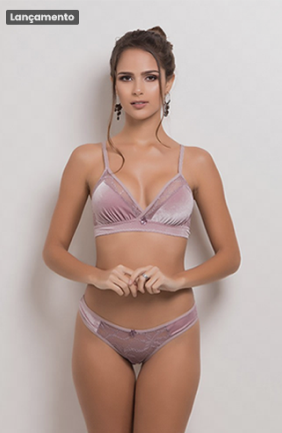
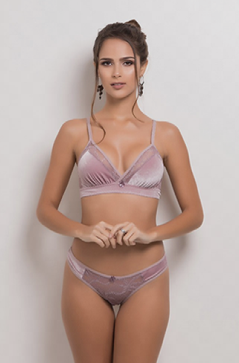
fix: hover and position absolute

diff --git a/index.html b/index.html
@@ -144,6 +144,21 @@
                 <div class="carousel-item">
                     <!-- Conteúdo do card 1 -->
                     <img class="img_card_slick" src="/assets/product01.png" alt="">
+                    <div class="div_buttons_product_slick_hover">
+                        <button class="button_favoritar_slick">                 
+                            <svg xmlns="http://www.w3.org/2000/svg" width="16" height="16" fill="currentColor" class="bi bi-heart" viewBox="0 0 16 16">
+                                <path d="m8 2.748-.717-.737C5.6.281 2.514.878 1.4 3.053c-.523 1.023-.641 2.5.314 4.385.92 1.815 2.834 3.989 6.286 6.357 3.452-2.368 5.365-4.542 6.286-6.357.955-1.886.838-3.362.314-4.385C13.486.878 10.4.28 8.717 2.01zM8 15C-7.333 4.868 3.279-3.04 7.824 1.143q.09.083.176.171a3 3 0 0 1 .176-.17C12.72-3.042 23.333 4.867 8 15"/>
+                            </svg>
+                            Favoritar
+                        </button>
+                        <button class="button_espiar_slick">
+                            <svg xmlns="http://www.w3.org/2000/svg" width="16" height="16" fill="currentColor" class="bi bi-eye" viewBox="0 0 16 16">
+                                <path d="M16 8s-3-5.5-8-5.5S0 8 0 8s3 5.5 8 5.5S16 8 16 8M1.173 8a13 13 0 0 1 1.66-2.043C4.12 4.668 5.88 3.5 8 3.5s3.879 1.168 5.168 2.457A13 13 0 0 1 14.828 8q-.086.13-.195.288c-.335.48-.83 1.12-1.465 1.755C11.879 11.332 10.119 12.5 8 12.5s-3.879-1.168-5.168-2.457A13 13 0 0 1 1.172 8z"/>
+                                <path d="M8 5.5a2.5 2.5 0 1 0 0 5 2.5 2.5 0 0 0 0-5M4.5 8a3.5 3.5 0 1 1 7 0 3.5 3.5 0 0 1-7 0"/>
+                            </svg>
+                            Espiar
+                        </button>
+                    </div>
                     <p></p>
                     <p class="tile_product_slick">Lorem, ipsum dolor sit amet</p>
                     <p class="referenci_product_slick">ref:pdc202</p>
@@ -151,10 +166,26 @@
                     <p class="meio_pagamento_product_slick"> no boleto</p>
                     <p class="meio_pagamento_product_slick_parcelado"> em até 10x de R$ 6,30</p>
                     <button class="button_product_slick">Compre agora</button>
+                    <p class="aviso_lancamento_slick">Lançamento</p>
                 </div>
                 <div class="carousel-item">
                     <!-- Conteúdo do card 2 -->
                     <img class="img_card_slick" src="/assets/product02.png" alt="">
+                    <div class="div_buttons_product_slick_hover">
+                        <button class="button_favoritar_slick">                 
+                            <svg xmlns="http://www.w3.org/2000/svg" width="16" height="16" fill="currentColor" class="bi bi-heart" viewBox="0 0 16 16">
+                                <path d="m8 2.748-.717-.737C5.6.281 2.514.878 1.4 3.053c-.523 1.023-.641 2.5.314 4.385.92 1.815 2.834 3.989 6.286 6.357 3.452-2.368 5.365-4.542 6.286-6.357.955-1.886.838-3.362.314-4.385C13.486.878 10.4.28 8.717 2.01zM8 15C-7.333 4.868 3.279-3.04 7.824 1.143q.09.083.176.171a3 3 0 0 1 .176-.17C12.72-3.042 23.333 4.867 8 15"/>
+                            </svg>
+                            Favoritar
+                        </button>
+                        <button class="button_espiar_slick">
+                            <svg xmlns="http://www.w3.org/2000/svg" width="16" height="16" fill="currentColor" class="bi bi-eye" viewBox="0 0 16 16">
+                                <path d="M16 8s-3-5.5-8-5.5S0 8 0 8s3 5.5 8 5.5S16 8 16 8M1.173 8a13 13 0 0 1 1.66-2.043C4.12 4.668 5.88 3.5 8 3.5s3.879 1.168 5.168 2.457A13 13 0 0 1 14.828 8q-.086.13-.195.288c-.335.48-.83 1.12-1.465 1.755C11.879 11.332 10.119 12.5 8 12.5s-3.879-1.168-5.168-2.457A13 13 0 0 1 1.172 8z"/>
+                                <path d="M8 5.5a2.5 2.5 0 1 0 0 5 2.5 2.5 0 0 0 0-5M4.5 8a3.5 3.5 0 1 1 7 0 3.5 3.5 0 0 1-7 0"/>
+                            </svg>
+                            Espiar
+                        </button>
+                    </div>
                     <p></p>
                     <p class="tile_product_slick">Lorem, ipsum dolor sit amet</p>
                     <p class="referenci_product_slick">ref:pdc202</p>
@@ -162,10 +193,26 @@
                     <p class="meio_pagamento_product_slick"> no boleto</p>
                     <p class="meio_pagamento_product_slick_parcelado"> em até 10x de R$ 6,30</p>
                     <button class="button_product_slick">Compre agora</button>
+                    <p class="aviso_lancamento_slick">Lançamento</p>
                 </div>
                 <div class="carousel-item">
                     <!-- Conteúdo do card 3 -->
                     <img class="img_card_slick" src="/assets/product03.png" alt="">
+                    <div class="div_buttons_product_slick_hover">
+                        <button class="button_favoritar_slick">                 
+                            <svg xmlns="http://www.w3.org/2000/svg" width="16" height="16" fill="currentColor" class="bi bi-heart" viewBox="0 0 16 16">
+                                <path d="m8 2.748-.717-.737C5.6.281 2.514.878 1.4 3.053c-.523 1.023-.641 2.5.314 4.385.92 1.815 2.834 3.989 6.286 6.357 3.452-2.368 5.365-4.542 6.286-6.357.955-1.886.838-3.362.314-4.385C13.486.878 10.4.28 8.717 2.01zM8 15C-7.333 4.868 3.279-3.04 7.824 1.143q.09.083.176.171a3 3 0 0 1 .176-.17C12.72-3.042 23.333 4.867 8 15"/>
+                            </svg>
+                            Favoritar
+                        </button>
+                        <button class="button_espiar_slick">
+                            <svg xmlns="http://www.w3.org/2000/svg" width="16" height="16" fill="currentColor" class="bi bi-eye" viewBox="0 0 16 16">
+                                <path d="M16 8s-3-5.5-8-5.5S0 8 0 8s3 5.5 8 5.5S16 8 16 8M1.173 8a13 13 0 0 1 1.66-2.043C4.12 4.668 5.88 3.5 8 3.5s3.879 1.168 5.168 2.457A13 13 0 0 1 14.828 8q-.086.13-.195.288c-.335.48-.83 1.12-1.465 1.755C11.879 11.332 10.119 12.5 8 12.5s-3.879-1.168-5.168-2.457A13 13 0 0 1 1.172 8z"/>
+                                <path d="M8 5.5a2.5 2.5 0 1 0 0 5 2.5 2.5 0 0 0 0-5M4.5 8a3.5 3.5 0 1 1 7 0 3.5 3.5 0 0 1-7 0"/>
+                            </svg>
+                            Espiar
+                        </button>
+                    </div>
                     <p></p>
                     <p class="tile_product_slick">Lorem, ipsum dolor sit amet</p>
                     <p class="referenci_product_slick">ref:pdc202</p>
@@ -173,10 +220,26 @@
                     <p class="meio_pagamento_product_slick"> no boleto</p>
                     <p class="meio_pagamento_product_slick_parcelado"> em até 10x de R$ 6,30</p>
                     <button class="button_product_slick">Compre agora</button>
+                    <p class="aviso_lancamento_slick">Lançamento</p>
                 </div>
                 <div class="carousel-item">
                     <!-- Conteúdo do card 4 -->
                     <img class="img_card_slick" src="/assets/product04.png" alt="">
+                    <div class="div_buttons_product_slick_hover">
+                        <button class="button_favoritar_slick">                 
+                            <svg xmlns="http://www.w3.org/2000/svg" width="16" height="16" fill="currentColor" class="bi bi-heart" viewBox="0 0 16 16">
+                                <path d="m8 2.748-.717-.737C5.6.281 2.514.878 1.4 3.053c-.523 1.023-.641 2.5.314 4.385.92 1.815 2.834 3.989 6.286 6.357 3.452-2.368 5.365-4.542 6.286-6.357.955-1.886.838-3.362.314-4.385C13.486.878 10.4.28 8.717 2.01zM8 15C-7.333 4.868 3.279-3.04 7.824 1.143q.09.083.176.171a3 3 0 0 1 .176-.17C12.72-3.042 23.333 4.867 8 15"/>
+                            </svg>
+                            Favoritar
+                        </button>
+                        <button class="button_espiar_slick">
+                            <svg xmlns="http://www.w3.org/2000/svg" width="16" height="16" fill="currentColor" class="bi bi-eye" viewBox="0 0 16 16">
+                                <path d="M16 8s-3-5.5-8-5.5S0 8 0 8s3 5.5 8 5.5S16 8 16 8M1.173 8a13 13 0 0 1 1.66-2.043C4.12 4.668 5.88 3.5 8 3.5s3.879 1.168 5.168 2.457A13 13 0 0 1 14.828 8q-.086.13-.195.288c-.335.48-.83 1.12-1.465 1.755C11.879 11.332 10.119 12.5 8 12.5s-3.879-1.168-5.168-2.457A13 13 0 0 1 1.172 8z"/>
+                                <path d="M8 5.5a2.5 2.5 0 1 0 0 5 2.5 2.5 0 0 0 0-5M4.5 8a3.5 3.5 0 1 1 7 0 3.5 3.5 0 0 1-7 0"/>
+                            </svg>
+                            Espiar
+                        </button>
+                    </div>
                     <p></p>
                     <p class="tile_product_slick">Lorem, ipsum dolor sit amet</p>
                     <p class="referenci_product_slick">ref:pdc202</p>
@@ -184,6 +247,7 @@
                     <p class="meio_pagamento_product_slick"> no boleto</p>
                     <p class="meio_pagamento_product_slick_parcelado"> em até 10x de R$ 6,30</p>
                     <button class="button_product_slick">Compre agora</button>
+                    <p class="aviso_lancamento_slick">Lançamento</p>
                 </div>
                 <!-- Adicione mais divs .carousel-item conforme necessário -->
             </div>

diff --git a/css/index.css b/css/index.css
@@ -153,6 +153,59 @@
     align-items: center;
     justify-content: center;
     gap: 5px;
+    position: relative;
+}
+.carousel-item:hover{
+    .div_buttons_product_slick_hover{
+        position: absolute;
+        top: 38%;
+        display: flex;
+        max-width: 140px;
+    }
+}
+.div_buttons_product_slick_hover{
+    position: absolute;
+    top: 38%;
+    display: none;
+    max-width: 140px;
+}
+
+.button_favoritar_slick{
+    border: 0;
+    background-color: #545454;
+    border-right: 1px solid #E8E8E8;
+    border-top-left-radius: 25px;
+    border-bottom-left-radius: 25px;
+    padding: 4px;
+    color: white;
+    display: flex;
+    align-items: center;
+    gap: 4px;
+}
+.button_espiar_slick{
+    border: 0;
+    background-color: #545454;
+    border-top-right-radius: 25px;
+    border-bottom-right-radius: 25px;
+    padding: 4px;
+    color: white;
+    display: flex;
+    align-items: center;
+    gap: 4px;
+}
+.carousel-item:hover .div_buttons_product_slick_hover {
+    display: flex;
+}
+
+.aviso_lancamento_slick{
+    position: absolute;
+    top: 1.2%;
+    left: 12%;
+    background-color: #545454;
+    padding: 3px;
+    font-size: xx-small;
+    color: white;
+    font-weight: 600;
 }
 
 .carousel-controls_dois {
